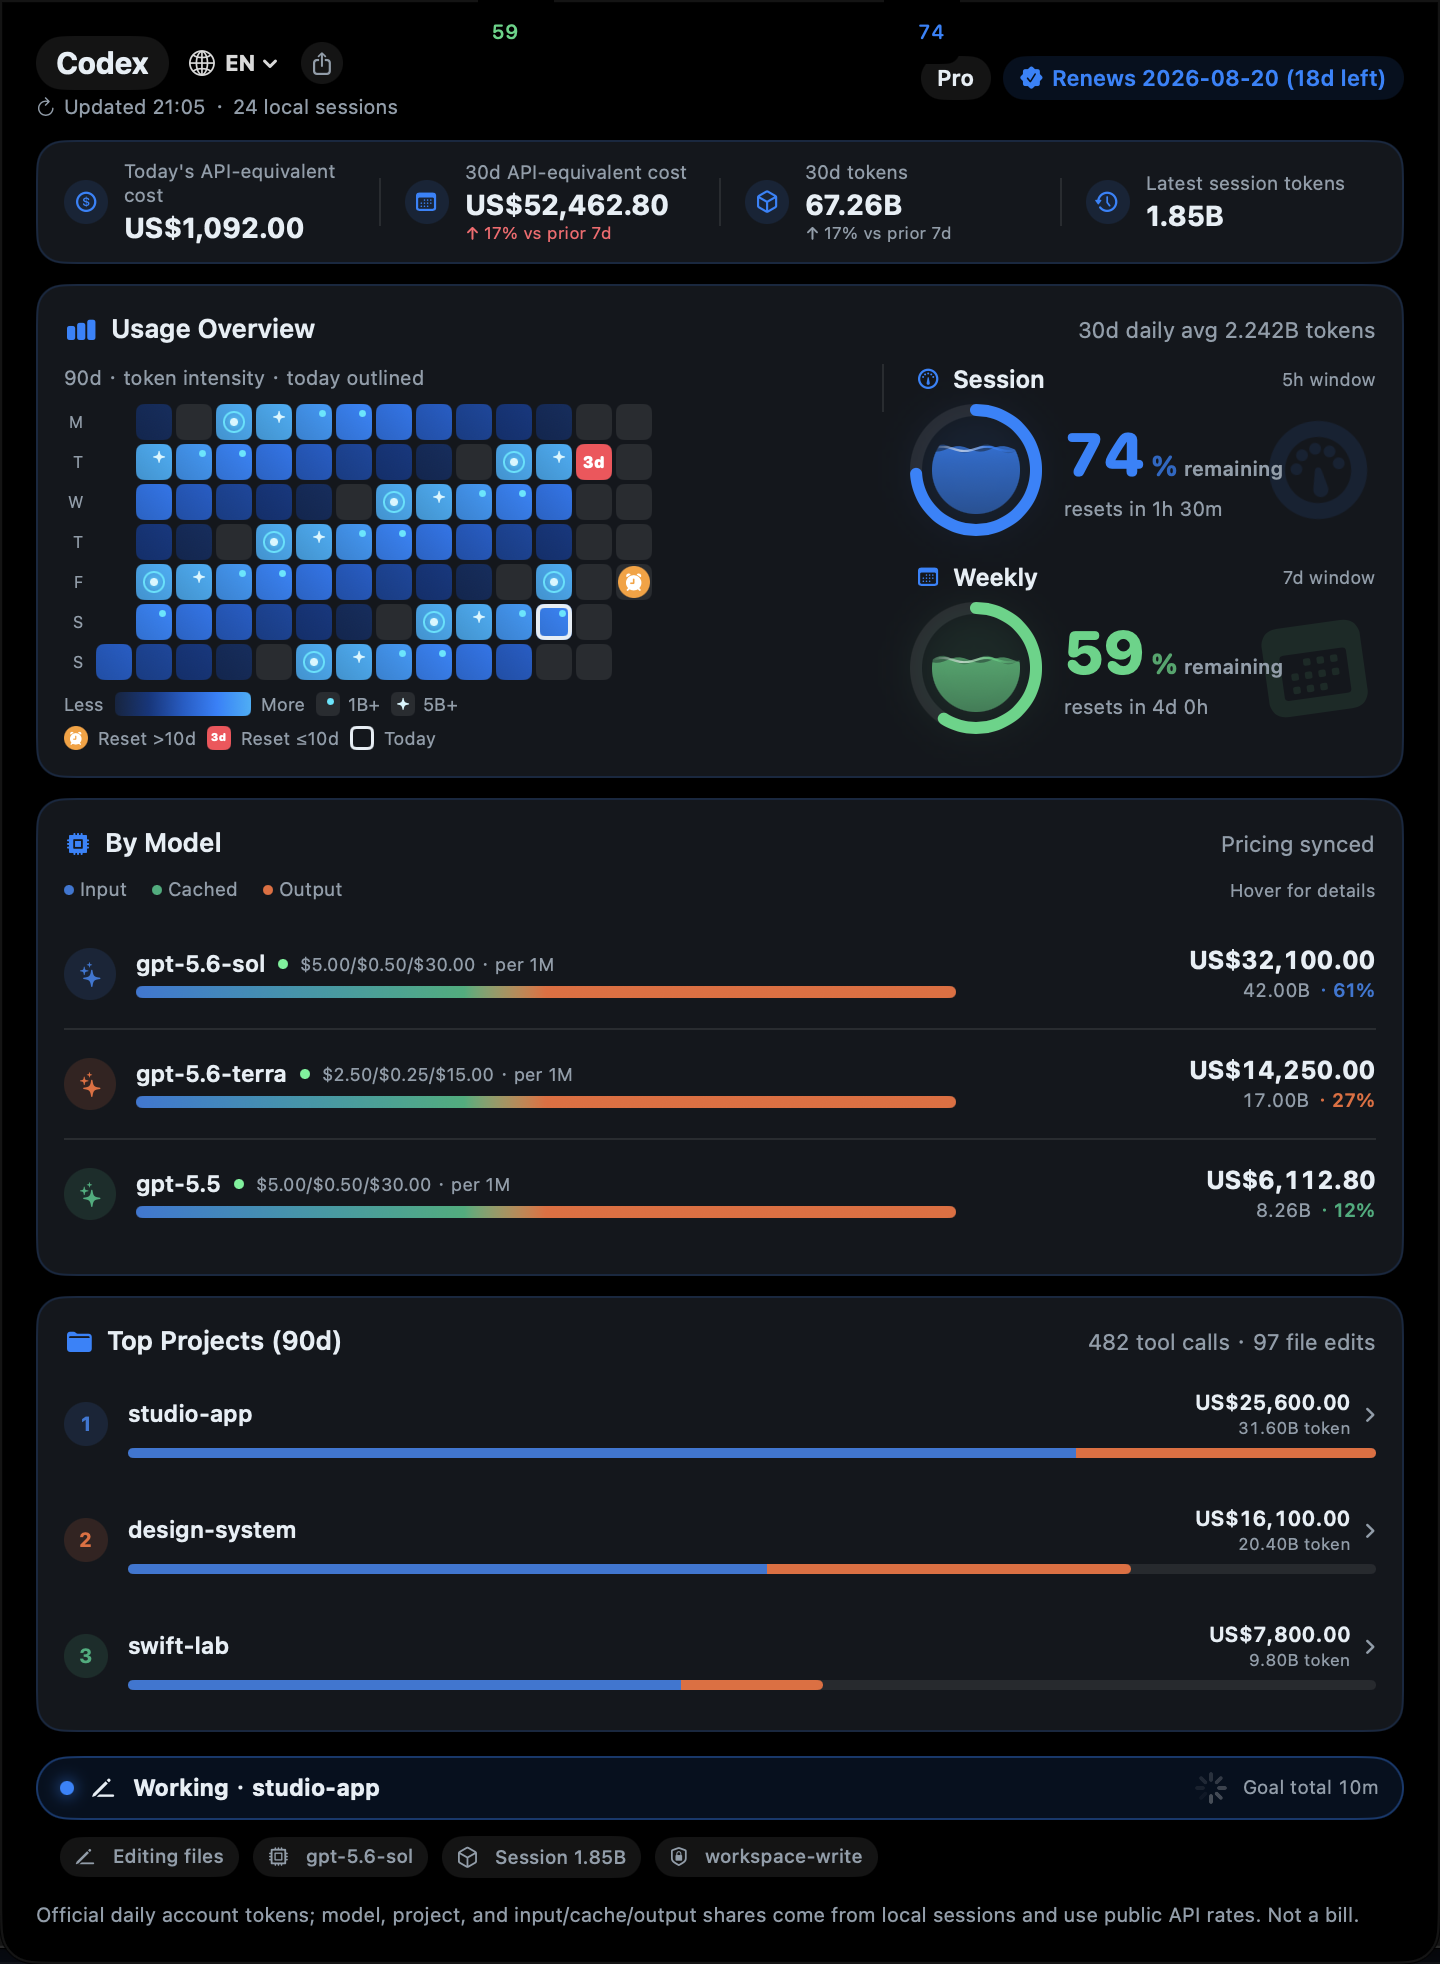
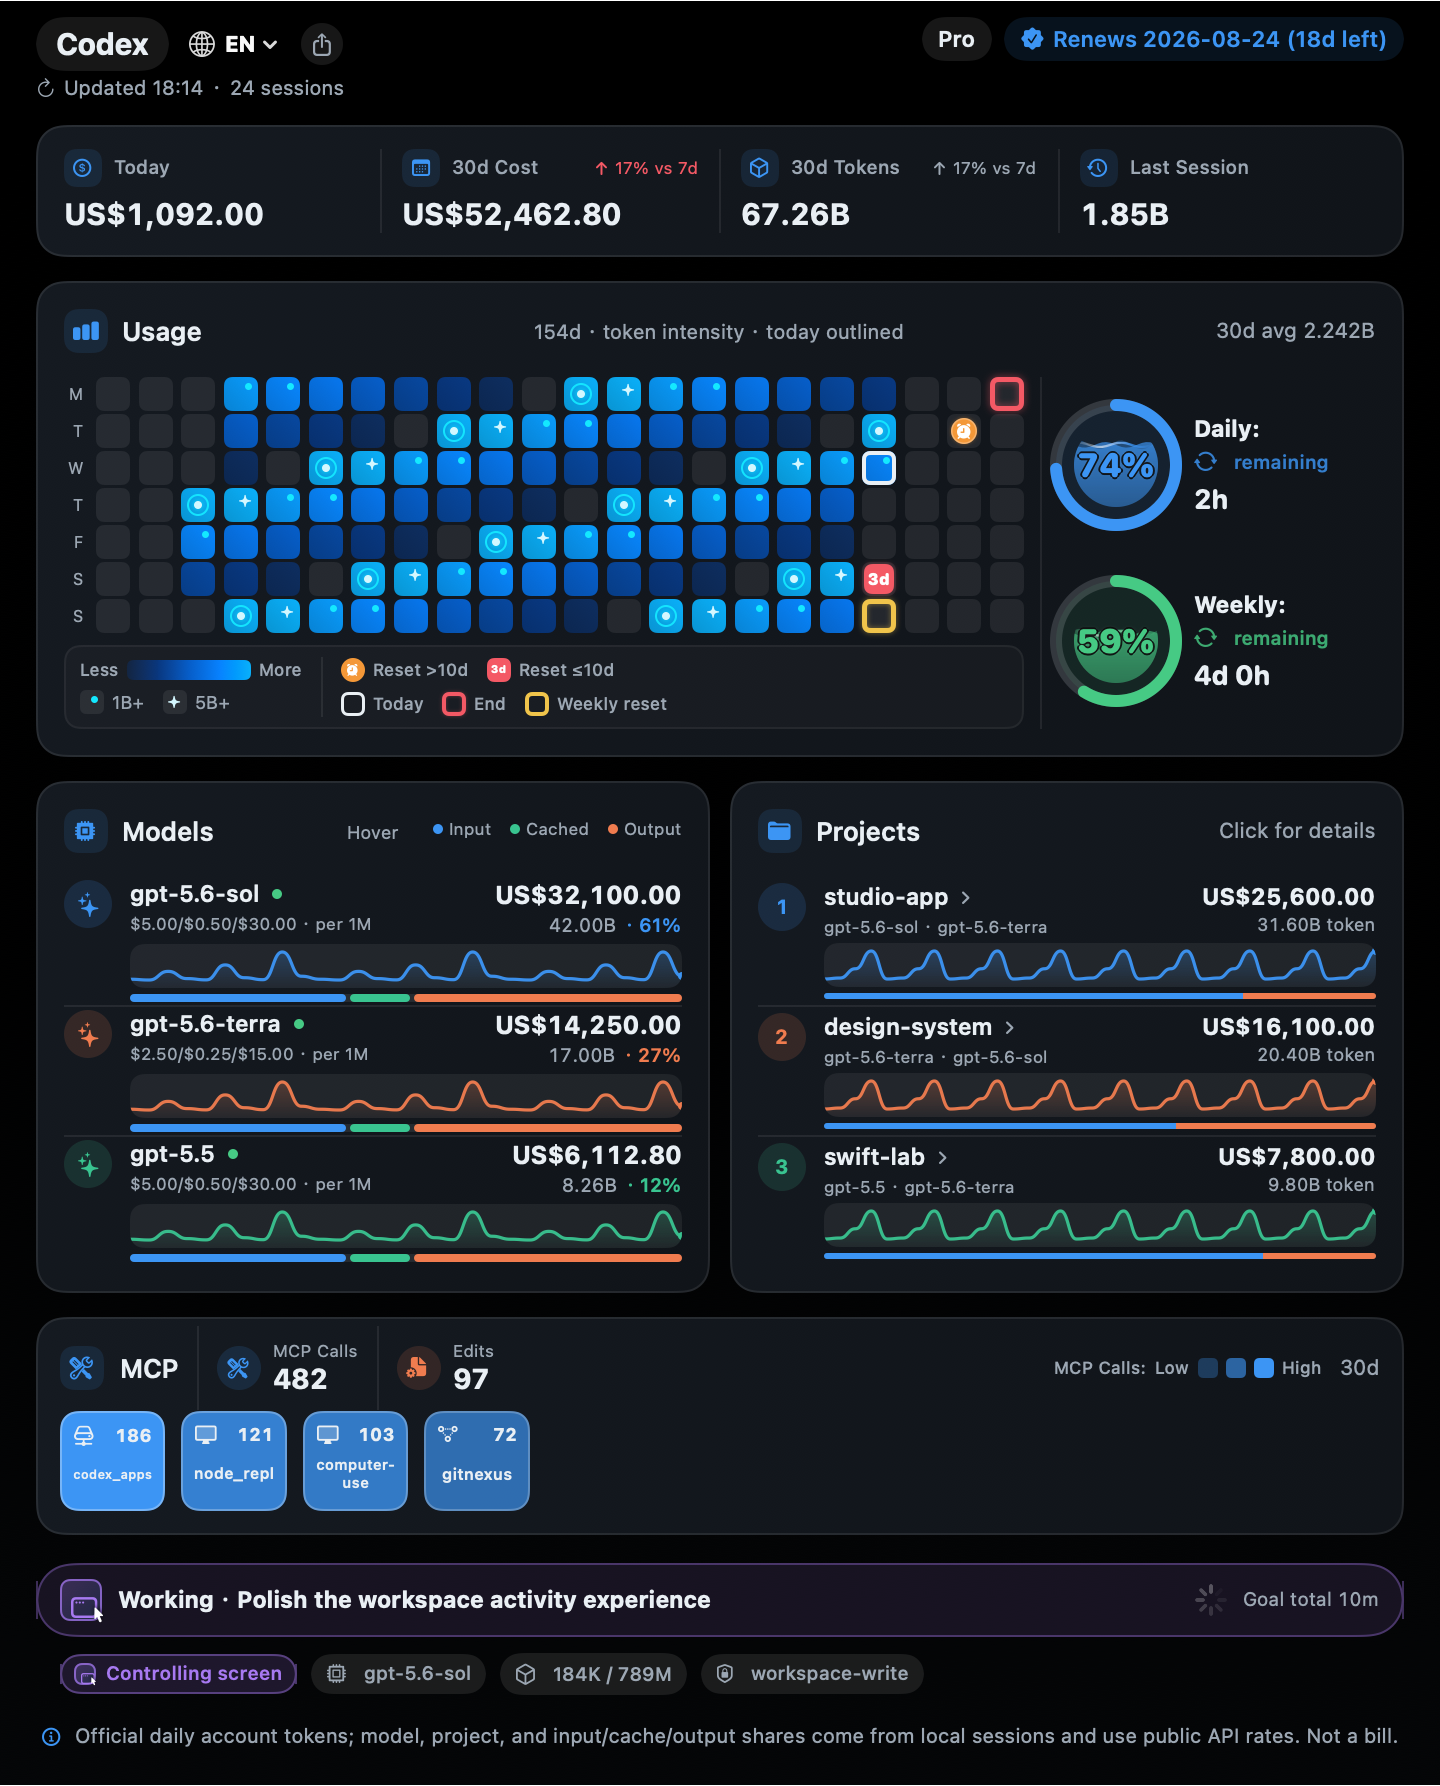
release: aibar 0.1.11

diff --git a/aibar/Sources/aibar/Features/Dashboard/ModelBreakdownView.swift b/aibar/Sources/aibar/Features/Dashboard/ModelBreakdownView.swift
@@ -200,10 +200,10 @@ private struct ModelRow: View {
 
                         pricingLabel
                     }
-
-                    Spacer(minLength: 0)
+                    .frame(maxWidth: .infinity, alignment: .leading)
 
                     spendingSummary
+                        .fixedSize(horizontal: true, vertical: false)
                 }
 
                 trendAndComposition
@@ -223,11 +223,15 @@ private struct ModelRow: View {
                     .font(.system(size: 8.5, weight: .semibold))
                     .foregroundStyle(Color.notchAccent)
                     .lineLimit(1)
+                    .minimumScaleFactor(0.72)
+                    .truncationMode(.tail)
             } else {
                 Text("$\(price.input, specifier: "%.2f")/$\(price.cachedInput, specifier: "%.2f")/$\(price.output, specifier: "%.2f") \(L.per1M(lang))")
                     .font(.system(size: 8.5))
                     .foregroundStyle(Color.notchMutedInk)
                     .lineLimit(1)
+                    .minimumScaleFactor(0.78)
+                    .truncationMode(.tail)
             }
         } else {
             Text(L.noOfficialPriceMapped(lang))

diff --git a/aibar/Sources/aibar/Features/Dashboard/ToolActivitySummaryView.swift b/aibar/Sources/aibar/Features/Dashboard/ToolActivitySummaryView.swift
@@ -56,7 +56,9 @@ struct MCPActivityCard: View {
 
                 Spacer(minLength: 0)
 
-                ToolHeatmapLegend()
+                if lang == .en {
+                    ToolHeatmapLegend()
+                }
 
                 Text(L.last30Days(lang))
                     .font(.system(size: 10.5))
@@ -71,7 +73,17 @@ struct MCPActivityCard: View {
                     .foregroundStyle(Color.notchMutedInk)
                     .frame(maxWidth: .infinity, alignment: .leading)
             } else {
-                MCPUsageHeatmap(servers: servers)
+                if lang == .zh {
+                    HStack(alignment: .top, spacing: 12) {
+                        MCPUsageHeatmap(servers: servers)
+                            .layoutPriority(1)
+                        ToolHeatmapLegend()
+                            .fixedSize()
+                            .padding(.top, 1)
+                    }
+                } else {
+                    MCPUsageHeatmap(servers: servers)
+                }
             }
         }
         .padding(12)

diff --git a/Casks/aibar.rb b/Casks/aibar.rb
@@ -1,6 +1,6 @@
 cask "aibar" do
-  version "0.1.10"
[1 lines of base64/hex data omitted]
+  version "0.1.11"
[1 lines of base64/hex data omitted]
 
   url "https://github.com/zszbyzsz/aibar/releases/download/v#{version}/aibar-#{version}.zip"
   name "aibar"

diff --git a/README.md b/README.md
@@ -6,7 +6,7 @@
 
 A local-first macOS dashboard for AI coding usage. aibar brings Codex session records, quota data, project and model statistics, and live activity into the space beneath your MacBook notch and the menu bar. It also provides an annotation tool designed for AI feedback on `fn + 4`—available when you need it and quiet when you do not.
 
-> Version 0.1.10 · macOS 13 Ventura or later · Apple Silicon
+> Version 0.1.11 · macOS 13 Ventura or later · Apple Silicon
 
 ![aibar dashboard](docs/images/dashboard-en.png)
 
@@ -14,7 +14,7 @@ A local-first macOS dashboard for AI coding usage. aibar brings Codex session re
 
 - **Notch dashboard and menu-bar controls** — Hover over the notch or click the menu-bar trend icon to open the dashboard. Left-click toggles it; right-click exposes the activity capsule, screenshot command, update check, and quit action. aibar does not occupy the Dock.
 - **Accurate usage totals** — Today and 30-day API-equivalent cost, 30-day tokens, latest-session tokens, and recent trends are calculated from the same locally scanned Codex sessions.
-- **Usage overview** — A 90-day token-intensity heatmap includes the exact daily total on hover, a compact 30-day daily token average, reset-credit expiry markers, and session (5h) and weekly (7d) quota meters.
+- **Usage overview** — A 154-day token-intensity heatmap includes the exact daily total on hover, a compact 30-day daily token average, reset-credit expiry markers, and session (5h) and weekly (7d) quota meters.
 - **Model and project breakdowns** — Model pricing, cost, token share, input/cached/output rates, and project totals are recomputed from the loaded sessions. Pricing is refreshed from the public source and falls back to a local cache when necessary.
 - **Top projects** — Local projects are ranked by tokens and expand to show their model shares, tool-call totals, and file-edit totals.
 - **Live activity capsule** — The capsule shows each Codex conversation's project, model, current phase, context tokens, and elapsed time. A continuously running conversation keeps its total elapsed time; screen/desktop tool calls use a distinctive window-plus-cursor marker and violet highlight instead of the generic tool state. Hover to expand simultaneous conversations and click one to return to it in Codex.
@@ -71,11 +71,11 @@ brew update
 brew upgrade --cask aibar
 ```
 
-Packages through `v0.1.10` are ad-hoc signed, so each version has a different macOS privacy identity. After upgrading, grant Screen Recording again if prompted. Moving to the first Developer ID signed release will require one final reauthorization; later releases signed by the same identity will retain that permission.
+Packages through `v0.1.11` are ad-hoc signed, so each version has a different macOS privacy identity. After upgrading, grant Screen Recording again if prompted. Moving to the first Developer ID signed release will require one final reauthorization; later releases signed by the same identity will retain that permission.
 
 ### Download the app
 
-Download `aibar-0.1.10.zip` from [Releases](https://github.com/zszbyzsz/aibar/releases), unzip it, drag `aibar.app` to Applications, and open it.
+Download `aibar-0.1.11.zip` from [Releases](https://github.com/zszbyzsz/aibar/releases), unzip it, drag `aibar.app` to Applications, and open it.
 
 Use a release signed consistently with the same Developer ID to preserve Screen Recording consent through automatic updates. If macOS blocks the first launch, Control-click the app in Finder and choose **Open**. If it remains quarantined:
 
@@ -127,13 +127,13 @@ open dist/aibar.app
 
 ```bash
 SIGNING_IDENTITY="Developer ID Application: Your Name (TEAMID)" \
-  ./scripts/package-release.sh 0.1.10
+  ./scripts/package-release.sh 0.1.11
 ```
 
 An Ad-hoc package can be produced only through an explicit opt-in when privacy reauthorization is acceptable:
 
 ```bash
-ALLOW_ADHOC_RELEASE=1 ./scripts/package-release.sh 0.1.10
+ALLOW_ADHOC_RELEASE=1 ./scripts/package-release.sh 0.1.11
 ```
 
 ## License

diff --git a/README.zh-CN.md b/README.zh-CN.md
@@ -6,7 +6,7 @@
 
 aibar 是一款本地优先的 macOS AI 编程用量仪表盘。它把 Codex 会话记录、配额、项目与模型统计和实时运行状态收进 MacBook 刘海下方与状态栏，并通过 `fn + 4` 提供为 AI 反馈设计的截图标注工具——需要时展开，不需要时保持安静。
 
-> 版本 0.1.10 · macOS 13 Ventura 或更高版本 · Apple Silicon
+> 版本 0.1.11 · macOS 13 Ventura 或更高版本 · Apple Silicon
 
 ![aibar 仪表盘](docs/images/dashboard-zh.png)
 
@@ -14,7 +14,7 @@ aibar 是一款本地优先的 macOS AI 编程用量仪表盘。它把 Codex 会
 
 - **刘海仪表盘与状态栏入口**：把指针移到 MacBook 刘海区域，或点击状态栏的趋势图标即可展开。左键显示／隐藏，右键可访问运行胶囊、截图、检查更新和退出。aibar 不占用 Dock。
 - **准确的用量统计**：今日与 30 天 API 等价费用、30 天 token、最近会话 token 和近期趋势，统一基于本地扫描到的 Codex 会话计算。
-- **用量总览**：90 天 token 强度热图支持悬停查看精确日总量，右侧显示紧凑的 30 天日均 token、reset 额度到期标记，以及会话（5 小时）与周（7 天）配额。
+- **用量总览**：154 天 token 强度热图支持悬停查看精确日总量，右侧显示紧凑的 30 天日均 token、reset 额度到期标记，以及会话（5 小时）与周（7 天）配额。
 - **模型与项目明细**：模型价格、费用、token 占比、输入／缓存／输出单价和项目汇总，都会随当前读取的会话重新计算；定价优先从公开来源刷新，必要时使用本地缓存。
 - **最活跃项目**：本地项目按 token 排序，展开后可查看模型占比、工具调用次数和文件修改次数。
 - **运行状态胶囊**：显示每个 Codex 对话的项目、模型、当前阶段、上下文 token 和耗时。连续运行的对话保留完整累计时间；当 Codex 调用屏幕/桌面工具时，胶囊会用独特的“窗口 + 鼠标指针”标识和紫色高亮区分普通工具调用。悬停可展开多个并行对话，点击可回到对应的 Codex 对话。
@@ -73,11 +73,11 @@ brew update
 brew upgrade --cask aibar
 ```
 
-`v0.1.10` 及更早的安装包使用 Ad-hoc 签名，每个版本的 macOS 隐私身份都不同。升级后若系统提示，请重新授予屏幕录制权限。迁移到首个 Developer ID 签名版本时还需要最后重新授权一次；之后使用同一 Developer ID 发布的更新会继续复用该授权。
+`v0.1.11` 及更早的安装包使用 Ad-hoc 签名，每个版本的 macOS 隐私身份都不同。升级后若系统提示，请重新授予屏幕录制权限。迁移到首个 Developer ID 签名版本时还需要最后重新授权一次；之后使用同一 Developer ID 发布的更新会继续复用该授权。
 
 ### 直接下载安装包
 
-在 [Releases](https://github.com/zszbyzsz/aibar/releases) 下载 `aibar-0.1.10.zip`，解压后将 `aibar.app` 拖入“应用程序”文件夹并打开。
+在 [Releases](https://github.com/zszbyzsz/aibar/releases) 下载 `aibar-0.1.11.zip`，解压后将 `aibar.app` 拖入“应用程序”文件夹并打开。
 
 请使用同一 Developer ID 签名的正式发布版，以便自动更新后保持屏幕录制授权。若 macOS 阻止首次启动，请在 Finder 中按住 Control 点击应用并选择“打开”；若仍被隔离，可执行：
 
@@ -129,13 +129,13 @@ open dist/aibar.app
 
 ```bash
 SIGNING_IDENTITY="Developer ID Application: Your Name (TEAMID)" \
-  ./scripts/package-release.sh 0.1.10
+  ./scripts/package-release.sh 0.1.11
 ```
 
 若确认可以在升级后重新授权，可通过显式开关生成 Ad-hoc 安装包：
 
 ```bash
-ALLOW_ADHOC_RELEASE=1 ./scripts/package-release.sh 0.1.10
+ALLOW_ADHOC_RELEASE=1 ./scripts/package-release.sh 0.1.11
 ```
 
 ## 许可证
